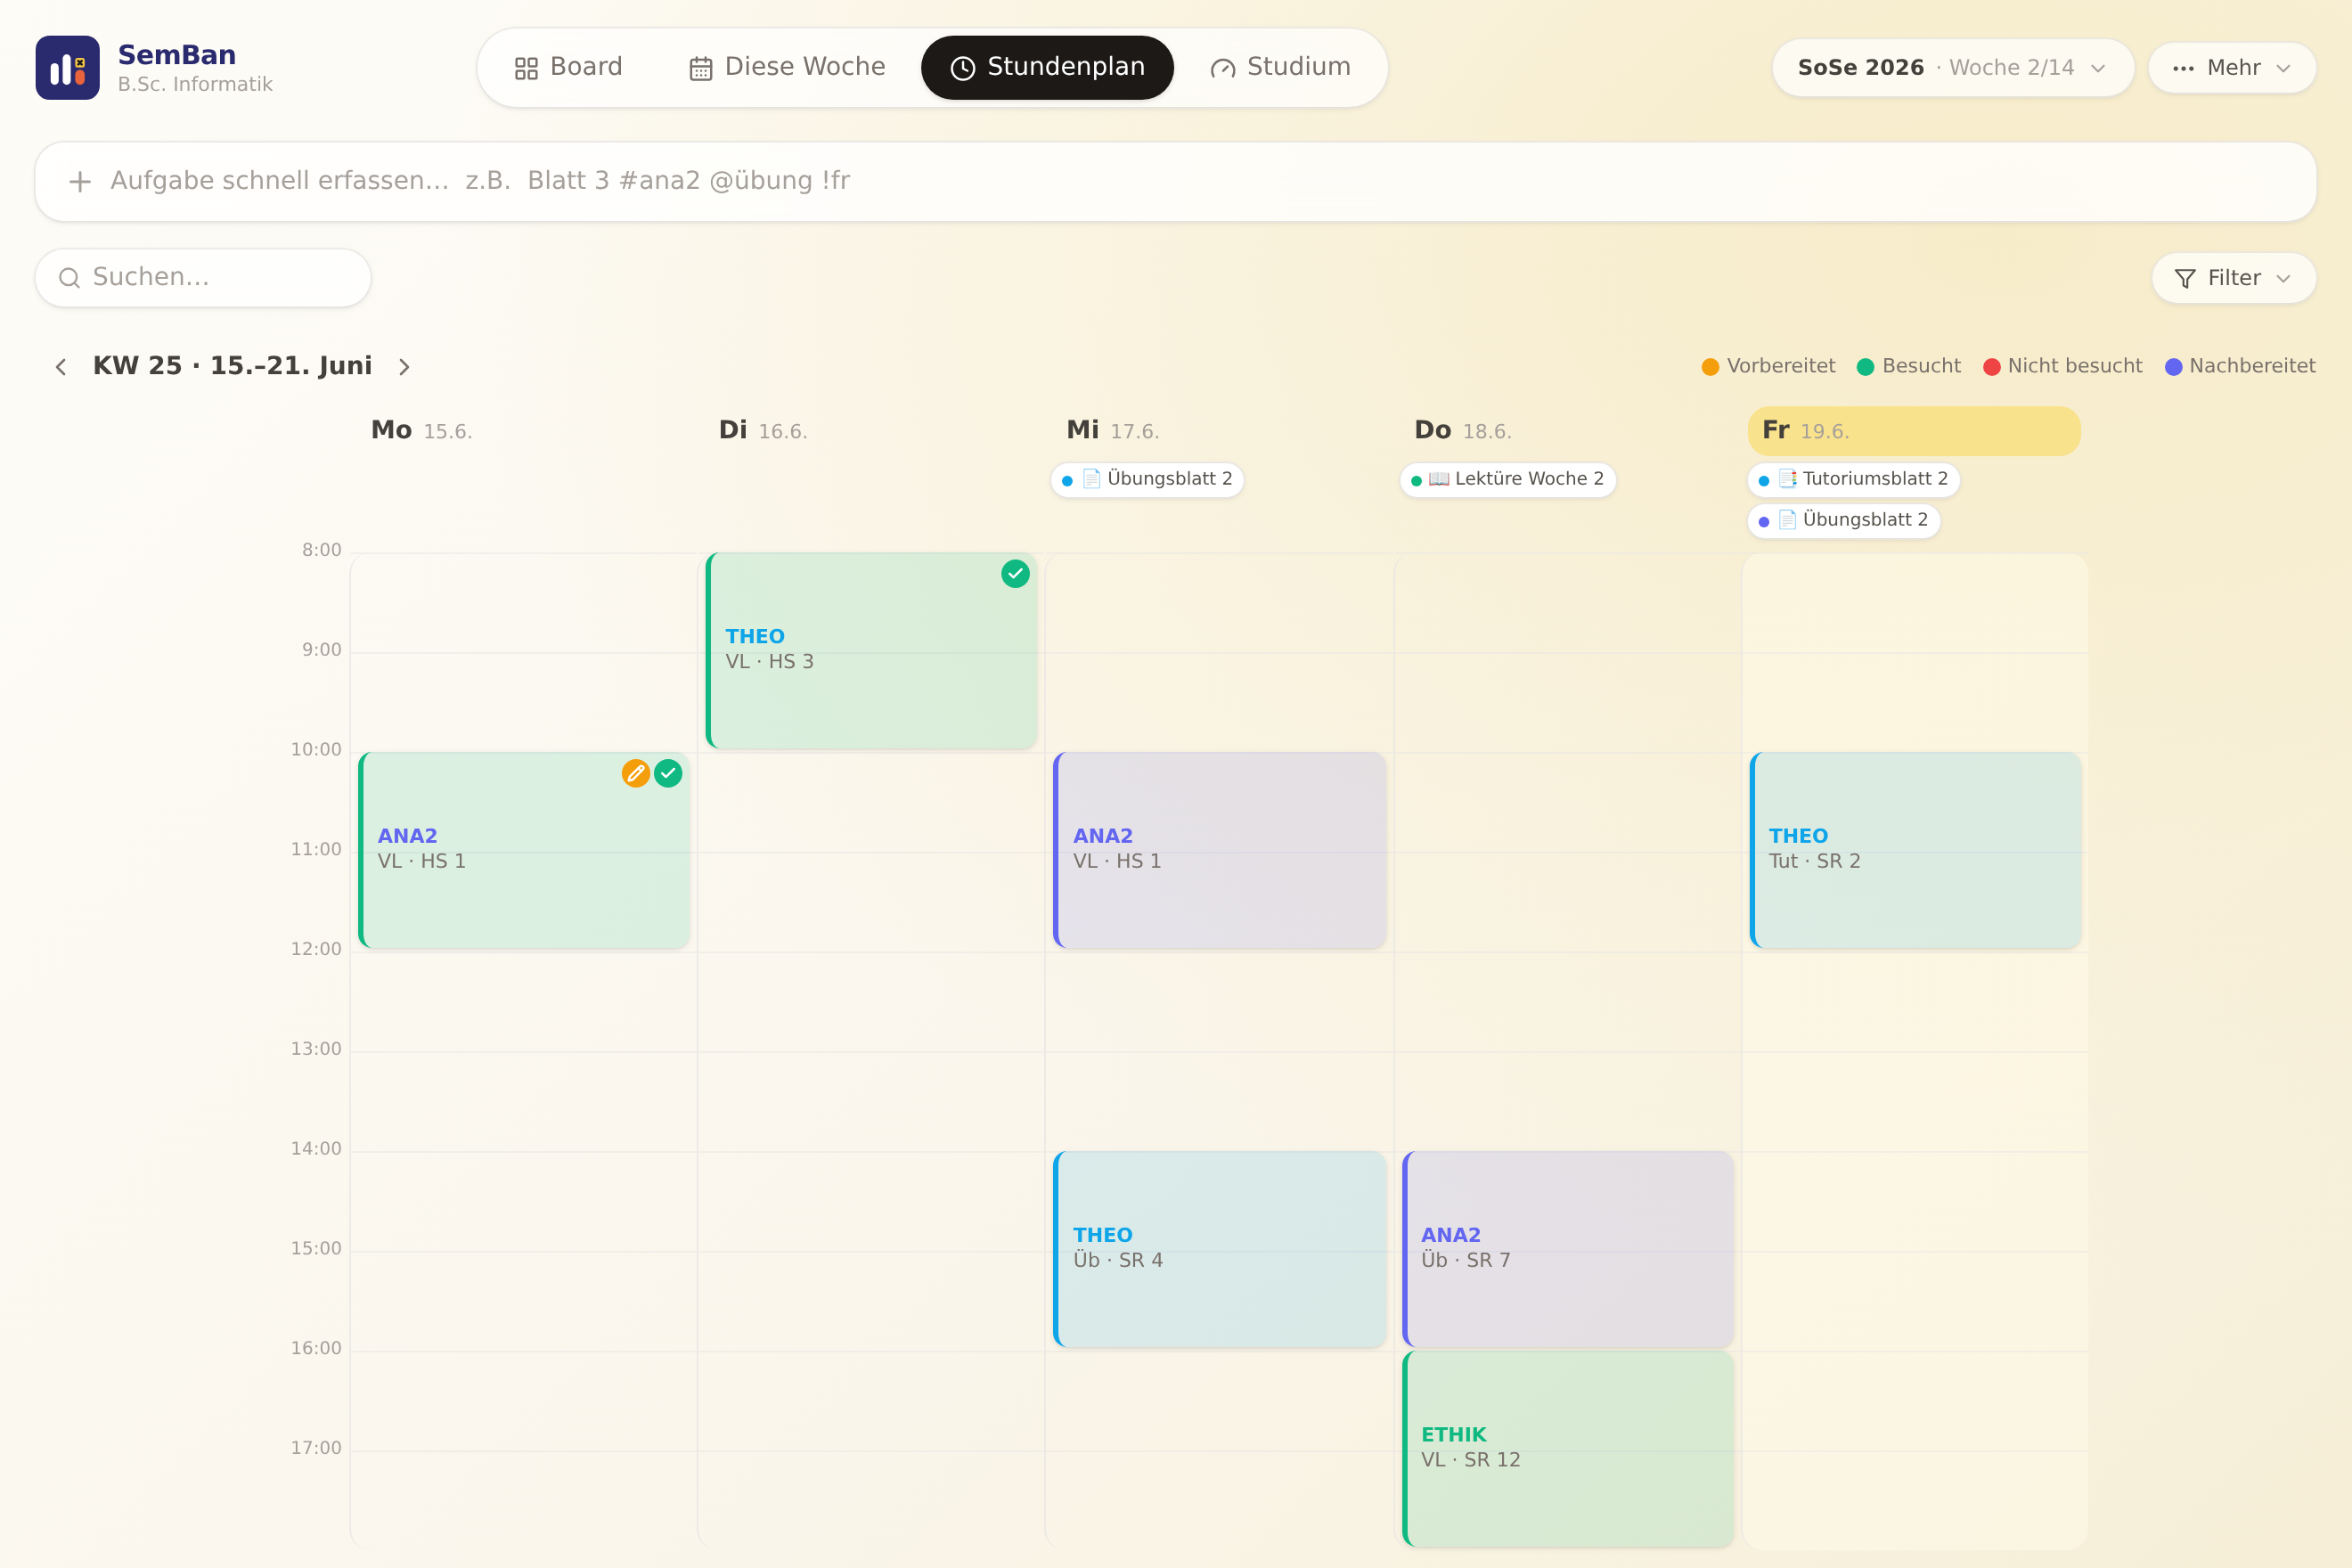
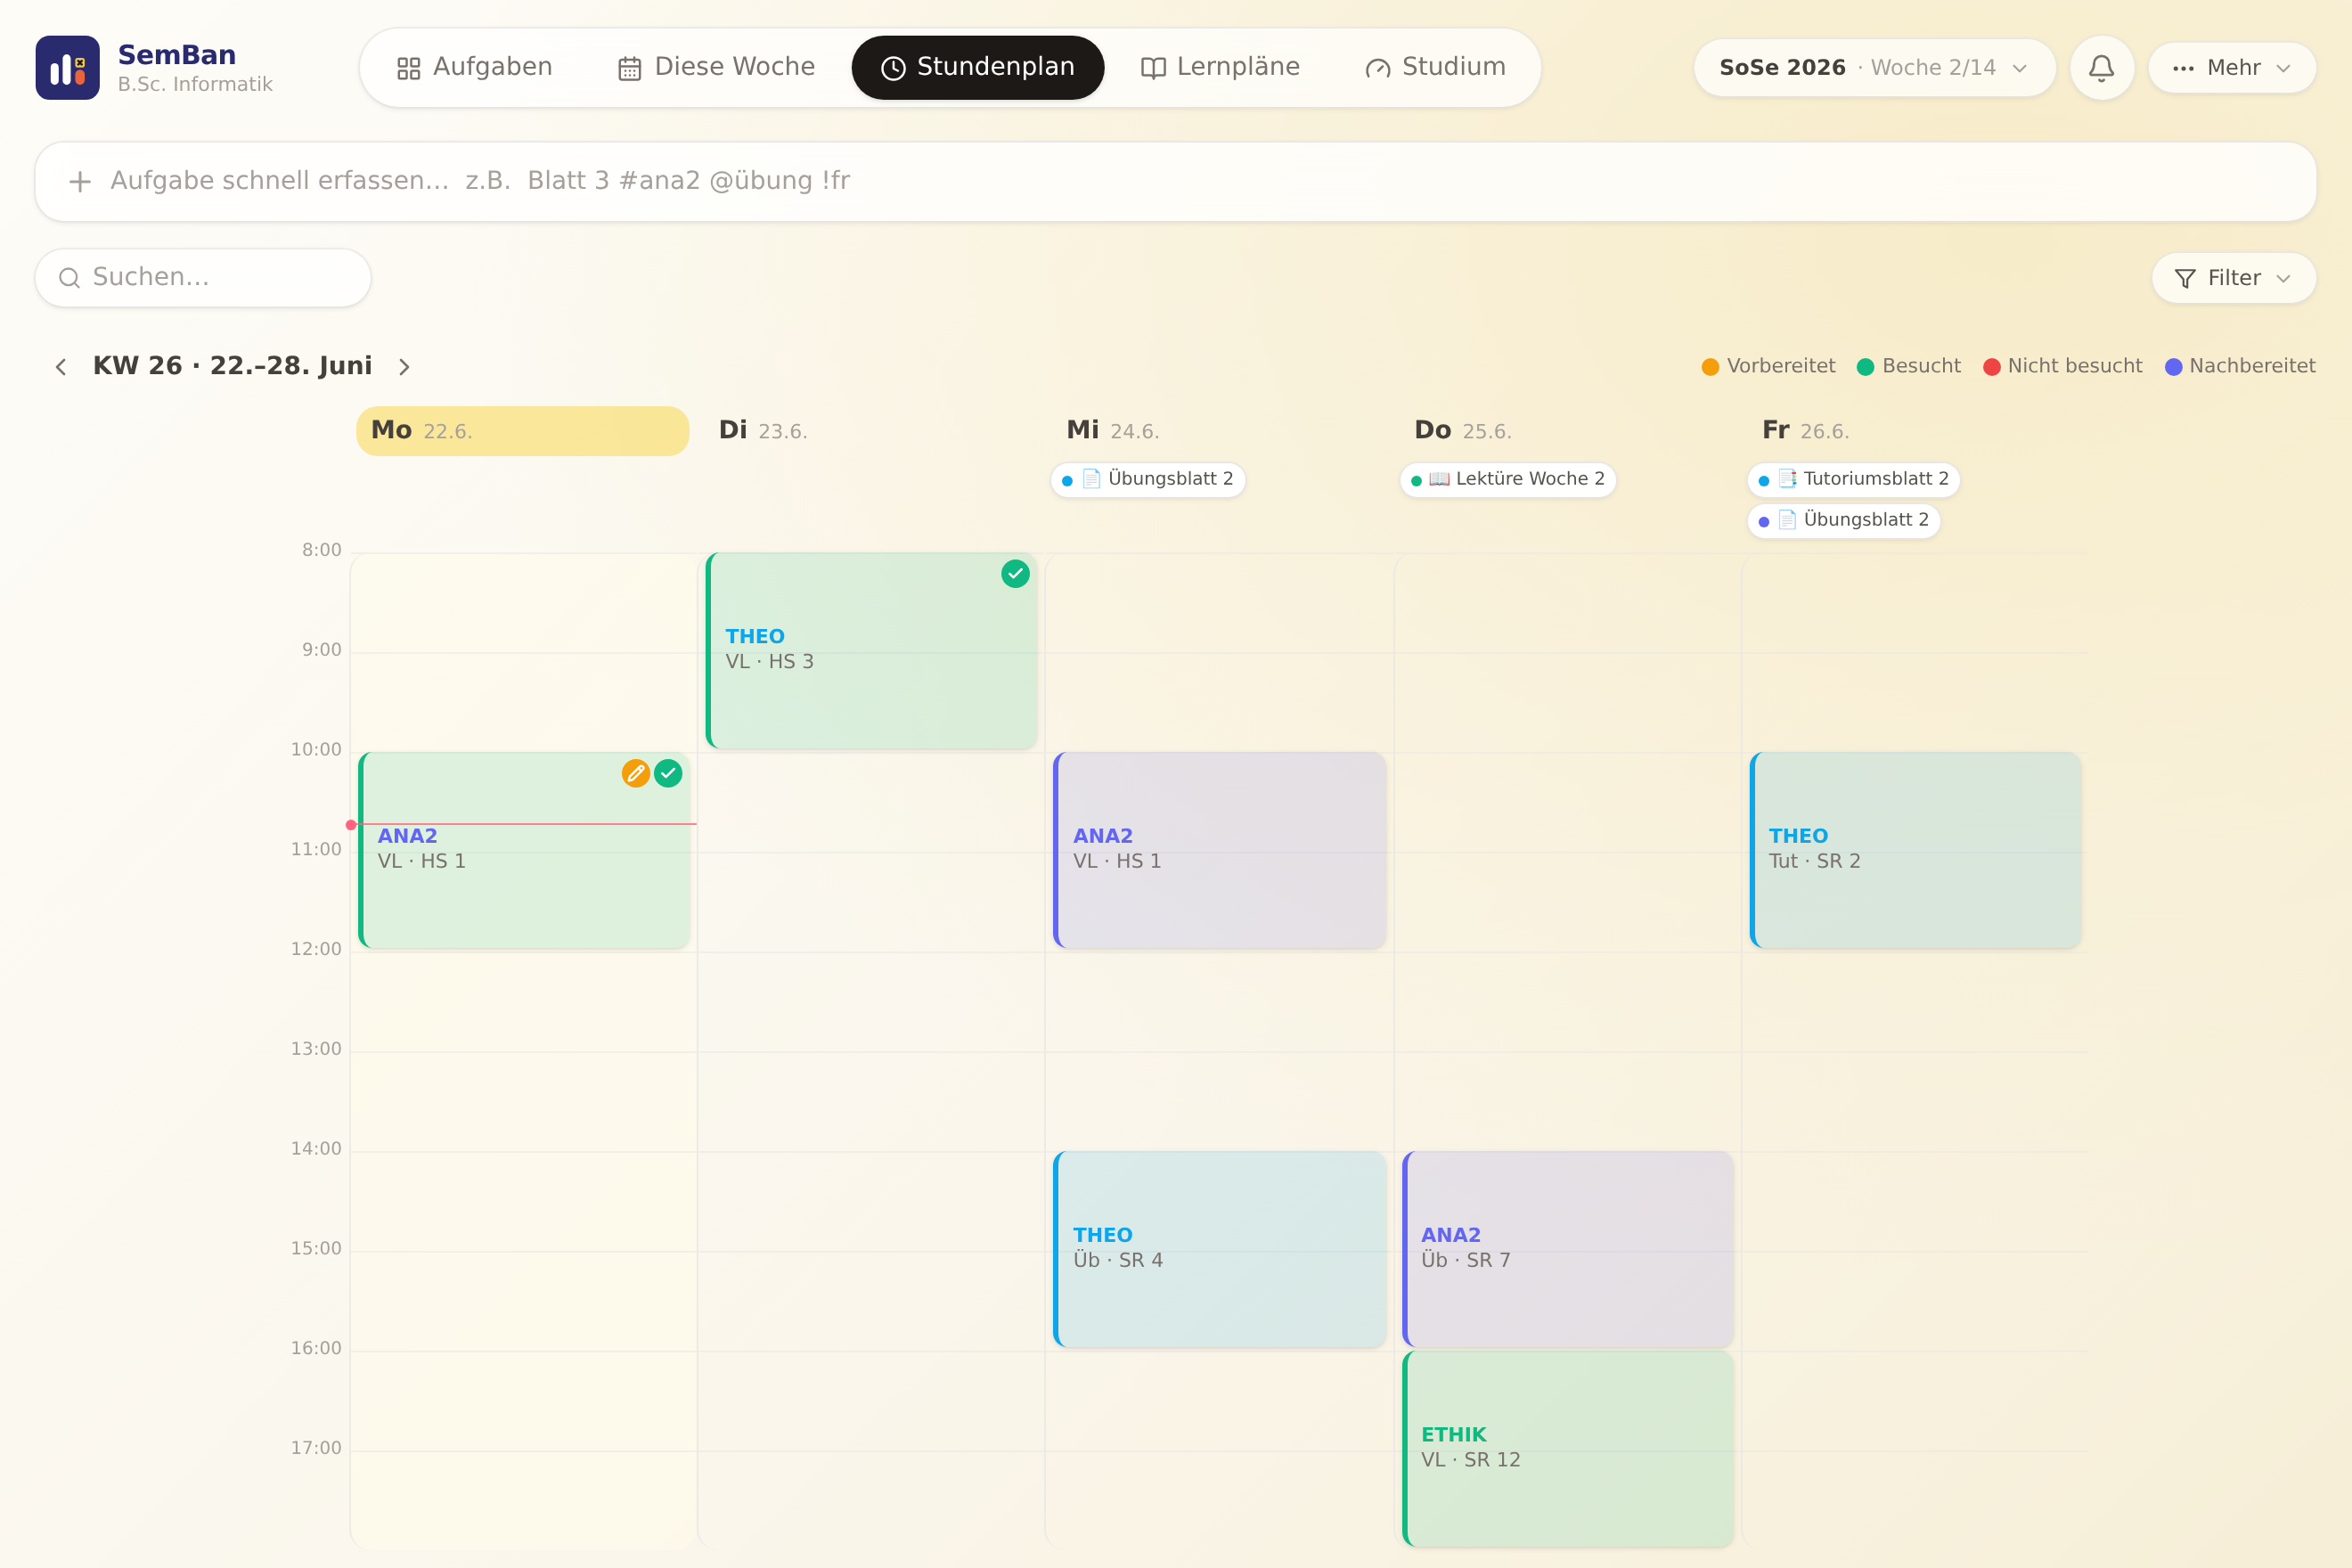
Landing: frische Screenshots + echter Lernplan-Screenshot
- board/schedule/study Screenshots neu aufgenommen (aktuelle UI, u. a. mit
  „Heute"-Filter), ohne Demo-Banner.
- Neuer plans.png-Screenshot der Lernplan-Ansicht; ersetzt das gebaute
  Mockup im Lernplan-Abschnitt durch einen echten App-Screenshot
  (Strategie-Varianten + Materialverteilung).
- seed.ts: Demo-Kurs Analysis II bekommt einen fertigen Lernplan (Kapitel,
  Altklausuren, Übungsblätter, Karteikarten) – die Lernpläne-Ansicht ist
  beim Erkunden direkt lebendig und liefert den Screenshot.
- scripts/landing-shots.mjs: wiederholbares Playwright-Skript zum Erzeugen
  der Landing-Screenshots aus der echten App (Demo-Daten, Tour/Banner aus).

Claude-Session: https://claude.ai/code/session_01TCeGsXCmaurWWPV3ReZXem

diff --git a/src/components/landing/Landing.tsx b/src/components/landing/Landing.tsx
@@ -23,7 +23,6 @@ import {
   Star,
   Quote,
   Brain,
-  BookOpen,
   Layers,
   Hourglass,
   Bell,
@@ -515,71 +514,13 @@ function StudyPlan({ onStart }: { onStart: () => void }) {
           </button>
         </Reveal>
         <Reveal delay={0.1}>
-          <PlanMock />
+          <BrowserFrame
+            src="/landing/plans.png"
+            alt="SemBan Lernplan für die Klausur: Strategie-Varianten und Materialverteilung über die Wochen"
+          />
         </Reveal>
       </div>
     </section>
-  )
-}
-
-/** Handgebautes, leichtgewichtiges Mockup des Lernplans (kein Screenshot). */
-function PlanMock() {
-  const bars = [12, 24, 16, 30, 22, 36, 28, 44, 34, 50, 40, 58, 48, 66, 56, 74]
-  const colors = ['#6366f1', '#0ea5e9', '#14b8a6', '#f5c645']
-  const legend: [string, string][] = [
-    ['#6366f1', 'Kapitel'],
-    ['#0ea5e9', 'Übungsblätter'],
-    ['#14b8a6', 'Tutorien'],
-    ['#f5c645', 'Karteikarten'],
-  ]
-  const sessions: [string, string, string][] = [
-    ['Mo', 'Kapitel 3 wiederholen', '45 Min'],
-    ['Mi', 'Altklausur 2 rechnen', 'Prüfungssimulation'],
-    ['täglich', 'Karteikarten', '15 Karten'],
-  ]
-  return (
-    <div className="rounded-3xl bg-white/80 p-5 shadow-[var(--shadow-float)] ring-1 ring-stone-200/70 backdrop-blur sm:p-6">
-      <div className="flex items-center justify-between gap-3">
-        <div className="flex items-center gap-2 text-sm font-semibold" style={{ color: NAVY }}>
-          <BookOpen size={15} /> Lernplan · Analysis II
-        </div>
-        <span className="shrink-0 rounded-full bg-indigo-100 px-2 py-0.5 text-[11px] font-semibold text-indigo-700">
-          Klausur in 38 Tagen
-        </span>
-      </div>
-      <div className="mt-1 text-xs text-stone-400">Materialverteilung bis zur Klausur</div>
-      <div className="mt-3 flex h-28 items-end gap-1.5" aria-hidden="true">
-        {bars.map((h, i) => (
-          <div
-            key={i}
-            className="flex-1 rounded-t-sm"
-            style={{ height: `${h}%`, backgroundColor: colors[i % colors.length], opacity: 0.85 }}
-          />
-        ))}
-      </div>
-      <div className="mt-3 flex flex-wrap gap-x-4 gap-y-1 text-[11px] text-stone-500">
-        {legend.map(([c, l]) => (
-          <span key={l} className="flex items-center gap-1.5">
-            <span className="h-2 w-2 rounded-full" style={{ backgroundColor: c }} />
-            {l}
-          </span>
-        ))}
-      </div>
-      <div className="mt-4 space-y-2">
-        {sessions.map(([day, label, meta]) => (
-          <div
-            key={label}
-            className="flex items-center justify-between rounded-xl bg-stone-50 px-3 py-2 text-xs"
-          >
-            <span className="flex items-center gap-2 font-medium text-stone-700">
-              <span className="w-12 shrink-0 text-stone-400">{day}</span>
-              {label}
-            </span>
-            <span className="shrink-0 text-stone-400">{meta}</span>
-          </div>
-        ))}
-      </div>
-    </div>
   )
 }
 

diff --git a/src/lib/seed.ts b/src/lib/seed.ts
@@ -185,6 +185,23 @@ async function doSeed(): Promise<void> {
     }
   }
 
+  // Fertiger Demo-Lernplan für Analysis II – damit die Lernpläne-Ansicht beim
+  // Erkunden direkt lebendig ist (Strategie-Varianten + Materialverteilung).
+  ana.studyPlan = {
+    examDate: iso(addWeeks(start, lectureWeeks)),
+    examDurationMin: 120,
+    cardsPerDay: 20,
+    altklausuren: 3,
+    chapters: 10,
+    uebungReviewIds: recurring
+      .filter((t) => t.recurringId === anaUbId)
+      .slice(0, 8)
+      .map((t) => t.id),
+    tutReviewIds: [],
+    strategy: 'now',
+    time: '18:00',
+  }
+
   // --- Einzelaufgaben (Hausarbeit, Referat, Klausur) ---
   const oneOff: Task[] = [
     {